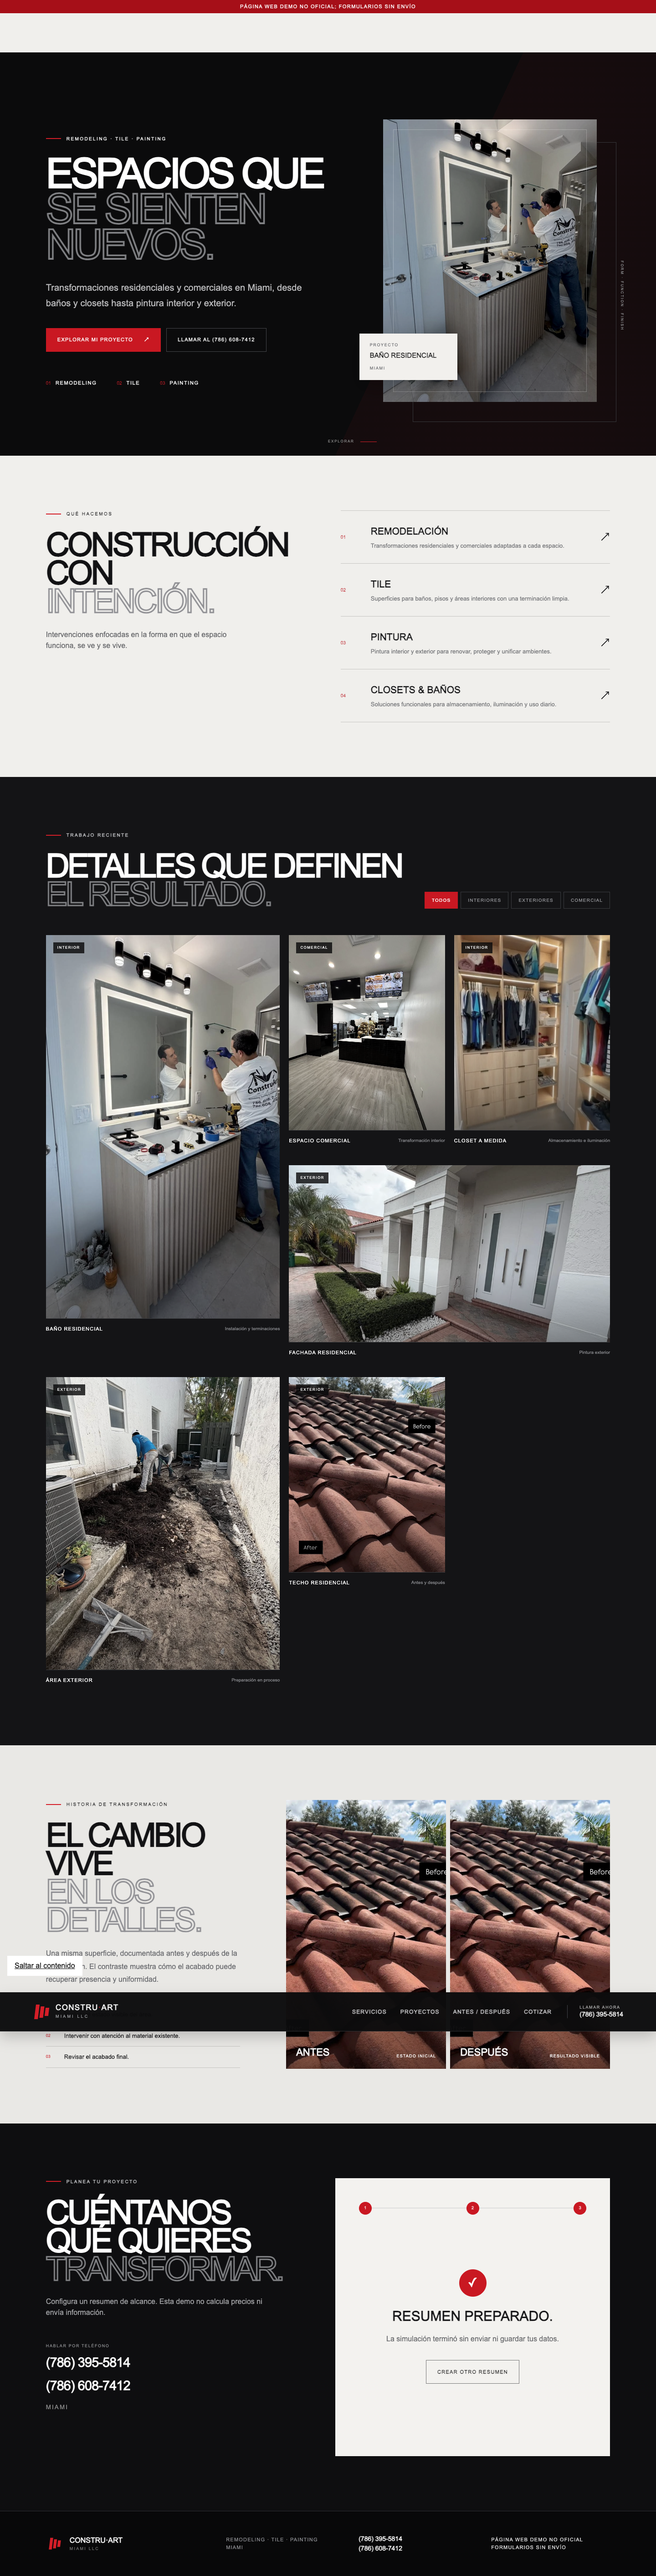
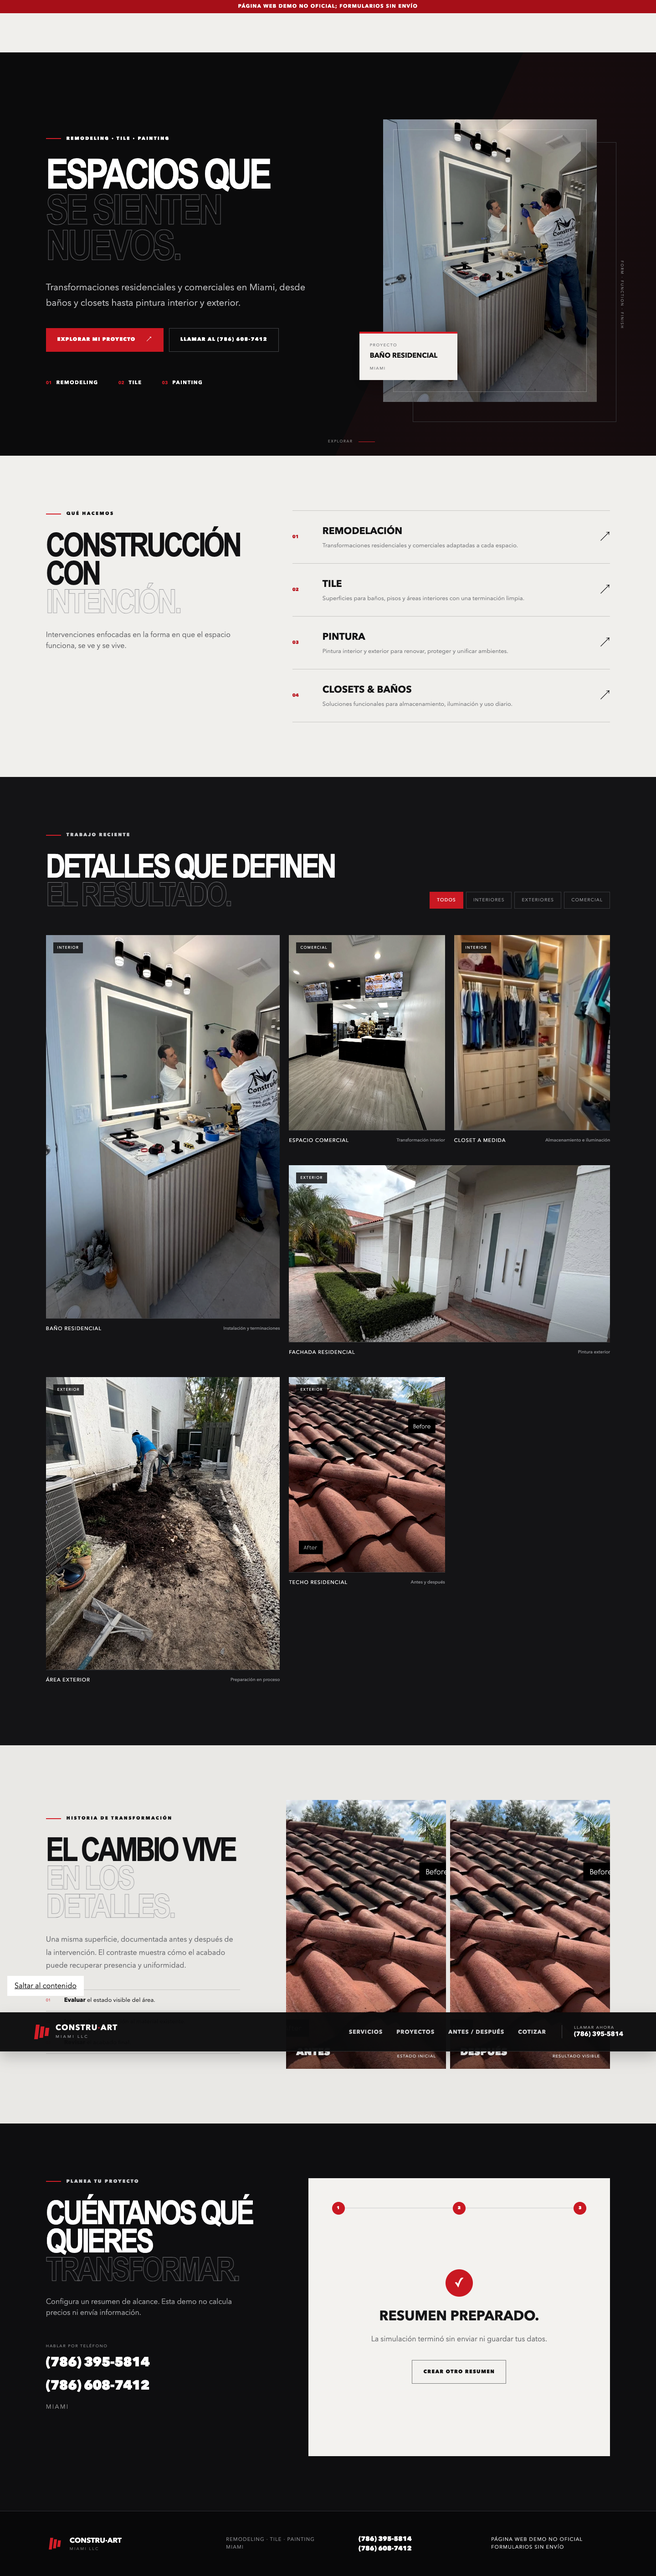
Polish architectural presentation

diff --git a/public/styles.css b/public/styles.css
@@ -3,3 +3,12 @@
 @media(max-width:760px){html{scroll-padding-top:85px}.demo-notice{height:34px;font-size:8px}.site-header{height:66px;padding:0 18px}.brand-mark{width:31px;height:31px;transform:scale(.82) skew(-7deg);transform-origin:left center}.brand strong{font-size:14px}.brand small{font-size:7px}.menu-toggle{display:flex;margin-left:auto;width:42px;height:42px;flex-direction:column;align-items:center;justify-content:center;gap:5px;cursor:pointer}.menu-toggle span{width:21px;height:1px;background:#fff}.menu-toggle b{position:absolute;clip:rect(0 0 0 0)}.site-nav{position:fixed;inset:100px 0 0;display:flex;flex-direction:column;align-items:flex-start;gap:0;padding:35px 24px;background:#0b0b0c;transform:translateX(100%);transition:transform .28s}.site-nav.is-open{transform:none}.site-nav a{width:100%;padding:22px 0;border-bottom:1px solid #2f3032;font-size:16px}.hero{min-height:auto;padding:60px 20px 95px;grid-template-columns:1fr;gap:52px}.hero h1{font-size:clamp(50px,16vw,70px)}.hero-lede{font-size:15px}.hero-actions{display:grid}.button{width:100%}.hero-proof{gap:15px;justify-content:space-between;margin-top:40px}.hero-proof div{display:block}.hero-proof strong,.hero-proof span{display:block}.hero-proof span{margin-top:4px;font-size:9px}.hero-visual{min-height:500px;margin:0 11px 0 20px}.hero-visual:before{inset:7% -10px -20px 10%}.hero-caption{left:-20px;bottom:26px;width:190px}.vertical-label{right:-33px}.scroll-cue{left:20px;bottom:34px}.service-strip,.portfolio,.transformation,.quote-section{padding:82px 20px}.section-heading{display:block}.section-heading h2,.portfolio h2,.transformation h2,.quote-section h2{font-size:43px}.section-heading>p:last-child{margin-top:24px}.service-list article{grid-template-columns:30px 1fr auto;gap:10px;min-height:126px}.service-list p{font-size:12px}.portfolio-top{display:block}.filters{justify-content:flex-start;margin-top:30px}.filter{flex:1}.project-grid{grid-template-columns:1fr;gap:25px}.project-wide{grid-column:auto}.project-wide .project-image{aspect-ratio:4/5}.project-meta{display:block}.project-meta strong{display:block;margin-top:5px}.comparison{gap:5px}.comparison-frame{min-height:450px}.comparison-frame figcaption{left:12px;right:12px}.comparison-frame figcaption span{font-size:15px}.comparison-frame figcaption small{display:none}.quote-intro{display:block}.quote-intro .contact-block{margin-top:38px}.estimator{padding:28px 18px;min-height:620px}.choice-grid span{height:94px;padding:14px}.choice-grid strong{font-size:9px}.form-actions{align-items:stretch;flex-direction:column-reverse}.form-actions .button{width:100%}.back-step{align-self:flex-start}.form-step>.next-step{width:100%}.form-success{padding:60px 5px}footer{grid-template-columns:1fr;padding:54px 20px 90px}.footer-demo{padding-top:20px;border-top:1px solid #2d2e31}.mobile-callbar{position:fixed;z-index:60;left:0;right:0;bottom:0;height:58px;display:grid;grid-template-columns:1.2fr .8fr;background:#c91822;color:#fff;box-shadow:0 -10px 25px rgba(0,0,0,.23)}.mobile-callbar a{display:grid;place-items:center;text-decoration:none;font-size:11px;font-weight:800;letter-spacing:.1em;text-transform:uppercase}.mobile-callbar a:last-child{background:#efeeee;color:#111}}
 @media(max-width:390px){.hero h1{font-size:47px}.hero-proof{flex-wrap:wrap}.comparison-frame{min-height:390px}.choice-grid{grid-template-columns:1fr}.choice-grid span{height:75px;flex-direction:row;align-items:center}.filters{display:grid;grid-template-columns:1fr 1fr}.section-heading h2,.portfolio h2,.transformation h2,.quote-section h2{font-size:38px}}
 @media(prefers-reduced-motion:reduce){html{scroll-behavior:auto}*,*:before,*:after{animation-duration:.01ms!important;transition-duration:.01ms!important}}
+
+/* Premium polish: sharper architectural hierarchy and richer project photography. */
+body{font-family:"Avenir Next",ConstruSans,"Helvetica Neue",Arial,sans-serif}
+.hero h1,.section-heading h2,.portfolio h2,.transformation h2,.quote-section h2{font-family:"Arial Narrow","Avenir Next Condensed","Helvetica Neue",sans-serif;font-weight:800;text-wrap:balance}
+.hero-visual img,.project-card img,.comparison-card img{filter:saturate(.88) contrast(1.08)}
+.hero-caption{border-top:4px solid #d51e28}
+.button,.project-card{transition:transform .25s ease,background-color .25s ease,box-shadow .25s ease}
+.button:hover,.project-card:hover{transform:translateY(-3px)}
+.project-card:hover{box-shadow:0 22px 48px rgba(0,0,0,.18)}

diff --git a/qa/outputs/worker/README.md b/qa/outputs/worker/README.md
@@ -1,1 +1,1 @@
-This folder contains the built output assets for the worker "korali-construart-miami-demo" generated at 2026-09-23T13:57:52.554Z.
+This folder contains the built output assets for the worker "korali-construart-miami-demo" generated at 2026-09-23T15:02:01.611Z.
